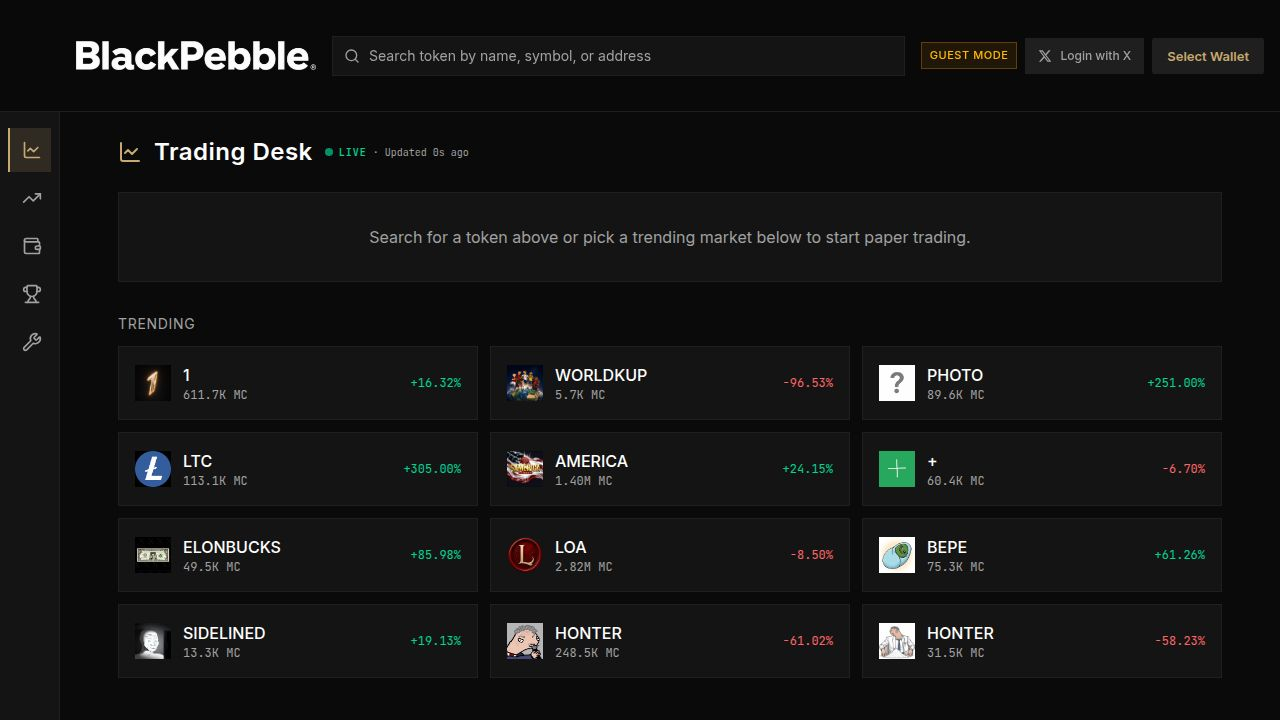
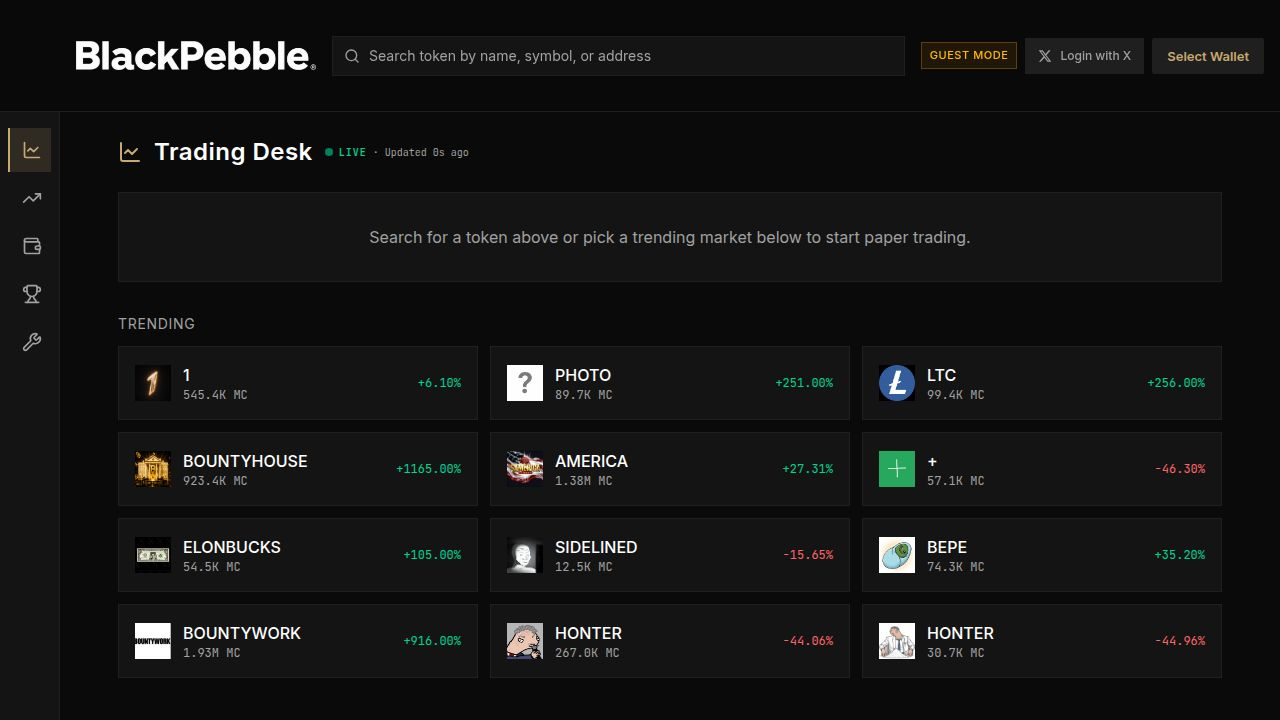
Add distinct sections for active order types on the portfolio page
Restructure the active orders display in the portfolio page by introducing a new "EXIT ORDERS" section for Take Profit and Stop Loss orders, aligning with the existing "BUY LIMITS" section. Each exit order is now presented in a clearer, two-line card format showing token, type, sell amount, and trigger conditions. The "Active Orders (N)" heading is integrated into the component with a live count, and a redundant heading has been removed from the portfolio page.

Replit-Commit-Author: Agent
Replit-Commit-Session-Id: 0e1b8913-3c53-42a3-b3cc-9e6d2747c7db
Replit-Commit-Checkpoint-Type: full_checkpoint
Replit-Commit-Event-Id: 72144dd5-8e22-4f52-8396-67bd34e835e0
Replit-Commit-Screenshot-Url: https://storage.googleapis.com/screenshot-production-us-central1/10163390-2dd2-4ac3-93aa-2078dbcd82e7/0e1b8913-3c53-42a3-b3cc-9e6d2747c7db/wSFxWMI
Replit-Helium-Checkpoint-Created: true

diff --git a/artifacts/blackpebble/src/components/position-orders.tsx b/artifacts/blackpebble/src/components/position-orders.tsx
@@ -161,9 +161,87 @@ export function PositionOrders({ mint }: { mint: string }) {
 }
 
 /**
+ * Two-line card row used only in the portfolio-level EXIT ORDERS section.
+ * Line 1: [token symbol (linked)] [TP/SL label] [Cancel | Filling…]
+ * Line 2: Sell X% · Trigger: MC ≥/≤ $Y
+ */
+function ExitOrderCard({
+  order,
+  onCancel,
+  onNavigate,
+}: {
+  order: PaperOrder;
+  onCancel: (id: number) => void;
+  onNavigate?: (mint: string) => void;
+}) {
+  const isTp = order.order_type === "take_profit";
+  const labelColor = isTp ? "text-emerald-400" : "text-red-400";
+  const label = isTp ? "Take Profit" : "Stop Loss";
+  const triggerDir = order.trigger_direction === "gte" ? "≥" : "≤";
+
+  return (
+    <div
+      data-testid={`order-row-${order.id}`}
+      className="px-3 py-2.5 space-y-1"
+    >
+      <div className="flex items-center justify-between gap-2">
+        <span className="flex items-center gap-2 min-w-0">
+          {onNavigate ? (
+            <button
+              type="button"
+              onClick={(e) => {
+                e.stopPropagation();
+                onNavigate(order.token_mint);
+              }}
+              data-testid={`button-order-token-${order.id}`}
+              className="font-mono font-semibold text-sm text-foreground/90 hover:text-accent transition-colors shrink-0"
+            >
+              {order.token_symbol ?? order.token_mint.slice(0, 6)}
+            </button>
+          ) : (
+            <span className="font-mono font-semibold text-sm text-foreground/90 shrink-0">
+              {order.token_symbol ?? order.token_mint.slice(0, 6)}
+            </span>
+          )}
+          <span className={cn("text-xs font-medium shrink-0", labelColor)}>
+            {label}
+          </span>
+        </span>
+        {order.status === "pending" ? (
+          <button
+            type="button"
+            onClick={(e) => {
+              e.stopPropagation();
+              onCancel(order.id);
+            }}
+            data-testid={`button-cancel-order-${order.id}`}
+            aria-label="Cancel order"
+            className="flex items-center gap-1 text-xs text-muted-foreground hover:text-red-400 transition-colors shrink-0"
+          >
+            <X className="h-3.5 w-3.5" />
+            Cancel
+          </button>
+        ) : (
+          <span className="text-[11px] text-muted-foreground shrink-0">
+            Filling…
+          </span>
+        )}
+      </div>
+      <div className="flex items-center gap-2 text-xs text-muted-foreground font-mono">
+        <span>Sell {order.amount_value}%</span>
+        <span>·</span>
+        <span>
+          Trigger: MC {triggerDir} {fmtMarketCap(order.trigger_value)}
+        </span>
+      </div>
+    </div>
+  );
+}
+
+/**
  * Portfolio-level view: all active orders (TP/SL exits + buy limits) across
  * every position/token, with token symbol prefix and cancel. Used on the
- * Portfolio page.
+ * Portfolio page. Renders its own section heading with live order count.
  */
 export function AllOrders({
   onNavigate,
@@ -188,53 +266,67 @@ export function AllOrders({
   const exitOrders = orders.filter((o) => o.order_type !== "buy_limit");
   const buyLimits = orders.filter((o) => o.order_type === "buy_limit");
 
-  if (orders.length === 0) {
-    return (
-      <div
-        data-testid="exit-orders-empty"
-        className="border border-border bg-card px-4 py-8 text-center text-sm text-muted-foreground"
-      >
-        No active orders. Add a Take Profit or Stop Loss from an open position,
-        or set a Buy Limit from the Trade Planner.
-      </div>
-    );
-  }
-
   return (
-    <div data-testid="exit-orders-list" className="space-y-3">
-      {buyLimits.length > 0 && (
-        <div className="border border-border bg-card">
-          <div className="px-3 py-2 border-b border-border/60">
-            <span className="text-[11px] font-medium uppercase tracking-wider text-accent">
-              Buy Limits
-            </span>
-          </div>
-          <div className="divide-y divide-border/40">
-            {buyLimits.map((o) => (
-              <div key={o.id} className="px-3 py-1.5">
-                <OrderRow
-                  order={o}
-                  showToken
-                  onCancel={cancel}
-                  onNavigate={onNavigate}
-                />
-              </div>
-            ))}
-          </div>
+    <div data-testid="all-orders-section" className="mt-8">
+      <h2 className="text-lg font-semibold mb-3">
+        Active Orders
+        {orders.length > 0 && (
+          <span className="text-base font-normal text-muted-foreground ml-1">
+            ({orders.length})
+          </span>
+        )}
+      </h2>
+
+      {orders.length === 0 ? (
+        <div
+          data-testid="exit-orders-empty"
+          className="border border-border bg-card px-4 py-8 text-center text-sm text-muted-foreground"
+        >
+          No active orders. Add a Take Profit or Stop Loss from an open
+          position, or set a Buy Limit from the Trade Planner.
         </div>
-      )}
-      {exitOrders.length > 0 && (
-        <div className="border border-border bg-card divide-y divide-border/40">
-          {exitOrders.map((o) => (
-            <div key={o.id} className="px-3 py-1.5">
-              <OrderRow
-                order={o}
-                showToken
-                onCancel={cancel}
-                onNavigate={onNavigate}
-              />
+      ) : (
+        <div data-testid="exit-orders-list" className="space-y-3">
+          {buyLimits.length > 0 && (
+            <div className="border border-border bg-card">
+              <div className="px-3 py-2 border-b border-border/60">
+                <span className="text-[11px] font-medium uppercase tracking-wider text-accent">
+                  Buy Limits
+                </span>
+              </div>
+              <div className="divide-y divide-border/40">
+                {buyLimits.map((o) => (
+                  <div key={o.id} className="px-3 py-1.5">
+                    <OrderRow
+                      order={o}
+                      showToken
+                      onCancel={cancel}
+                      onNavigate={onNavigate}
+                    />
+                  </div>
+                ))}
+              </div>
             </div>
-          ))}
+          )}
+          {exitOrders.length > 0 && (
+            <div className="border border-border bg-card">
+              <div className="px-3 py-2 border-b border-border/60">
+                <span className="text-[11px] font-medium uppercase tracking-wider text-emerald-400/80">
+                  Exit Orders
+                </span>
+              </div>
+              <div className="divide-y divide-border/40">
+                {exitOrders.map((o) => (
+                  <ExitOrderCard
+                    key={o.id}
+                    order={o}
+                    onCancel={cancel}
+                    onNavigate={onNavigate}
+                  />
+                ))}
+              </div>
+            </div>
+          )}
         </div>
       )}
     </div>

diff --git a/artifacts/blackpebble/src/pages/portfolio.tsx b/artifacts/blackpebble/src/pages/portfolio.tsx
@@ -324,7 +324,6 @@ export default function Portfolio() {
             onNavigate={(mint) => navigate(`/?token=${mint}`)}
           />
 
-          <h2 className="text-lg font-semibold mb-3 mt-8">Active Orders</h2>
           <AllOrders onNavigate={(mint) => navigate(`/?token=${mint}`)} />
 
           <h2 className="text-lg font-semibold mb-3 mt-8">Watchlist</h2>